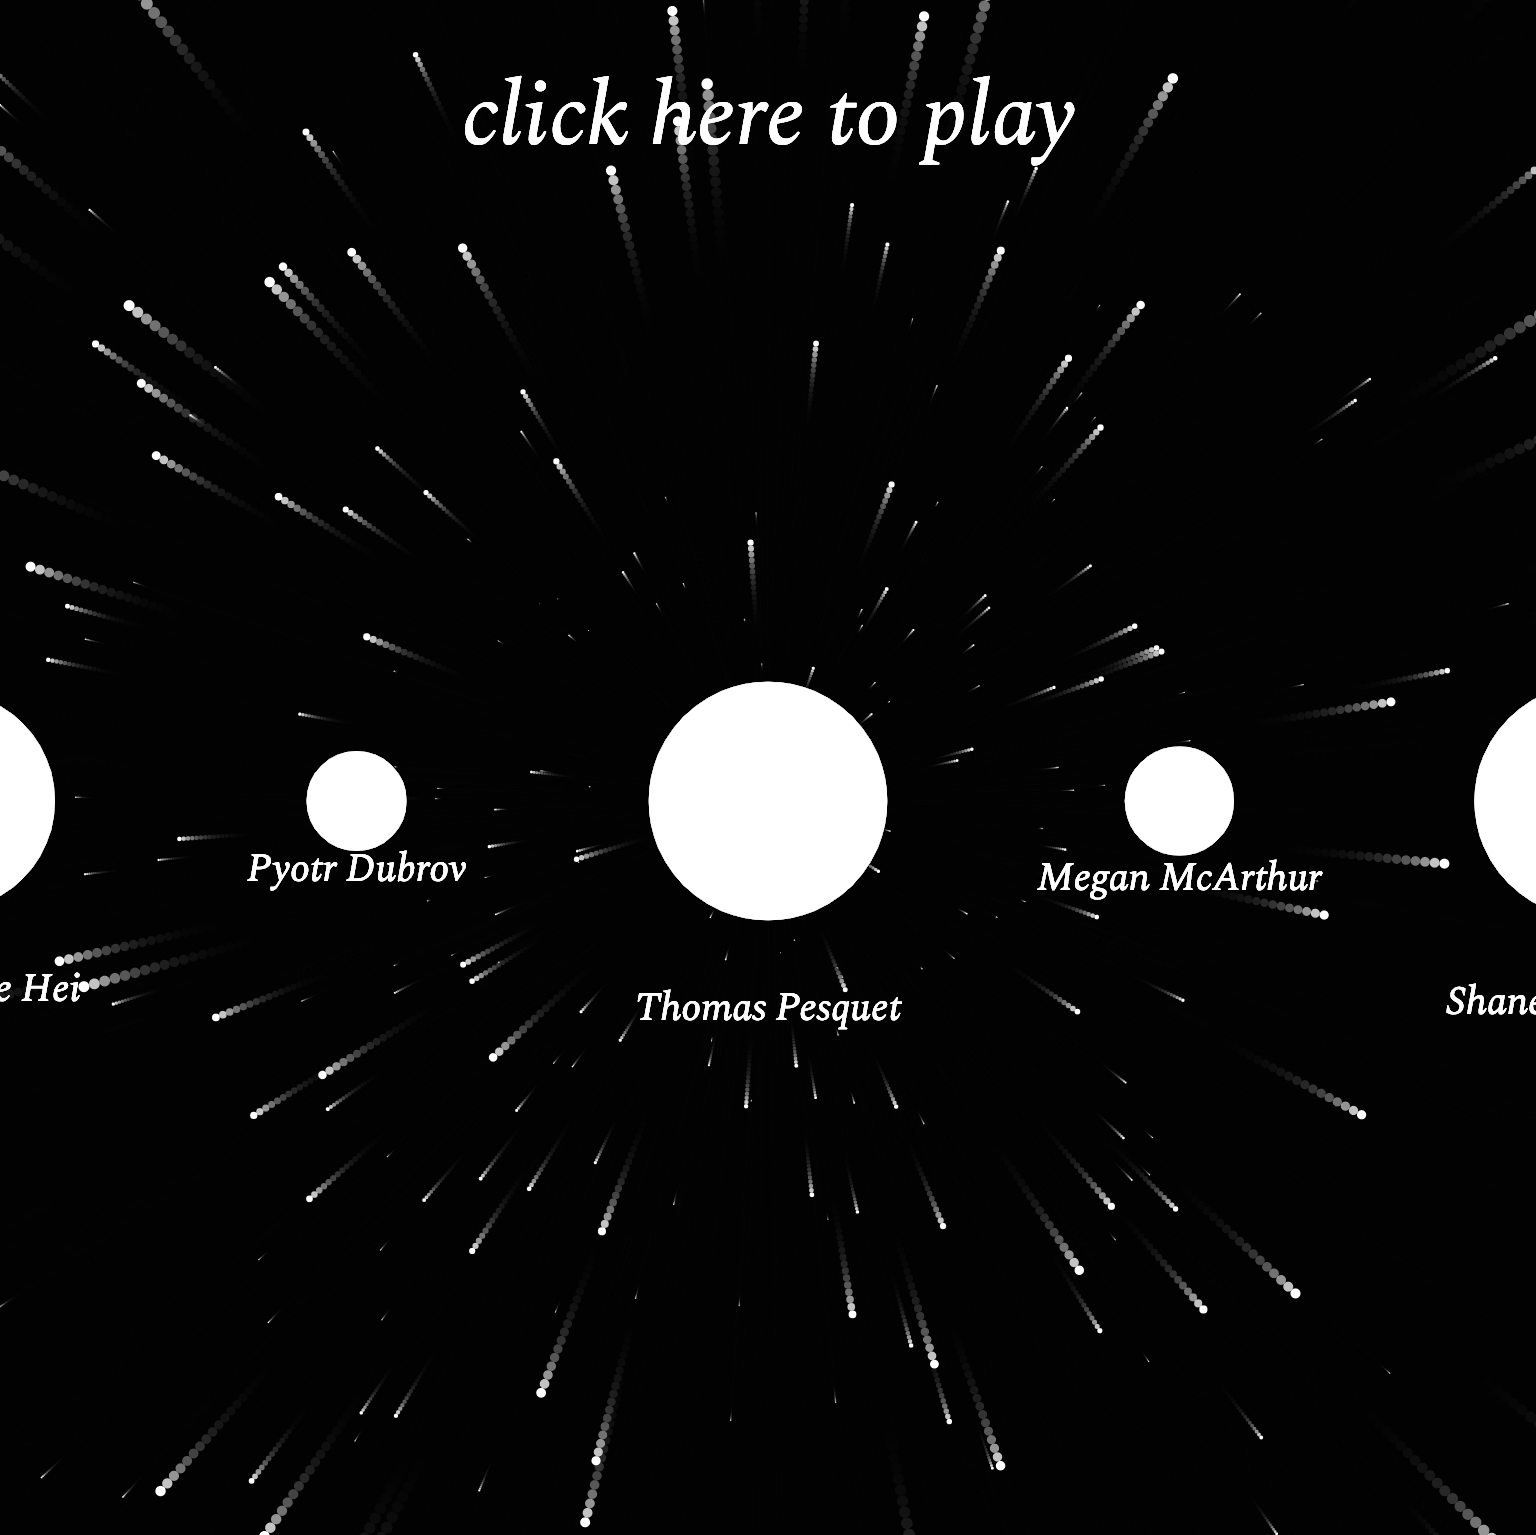
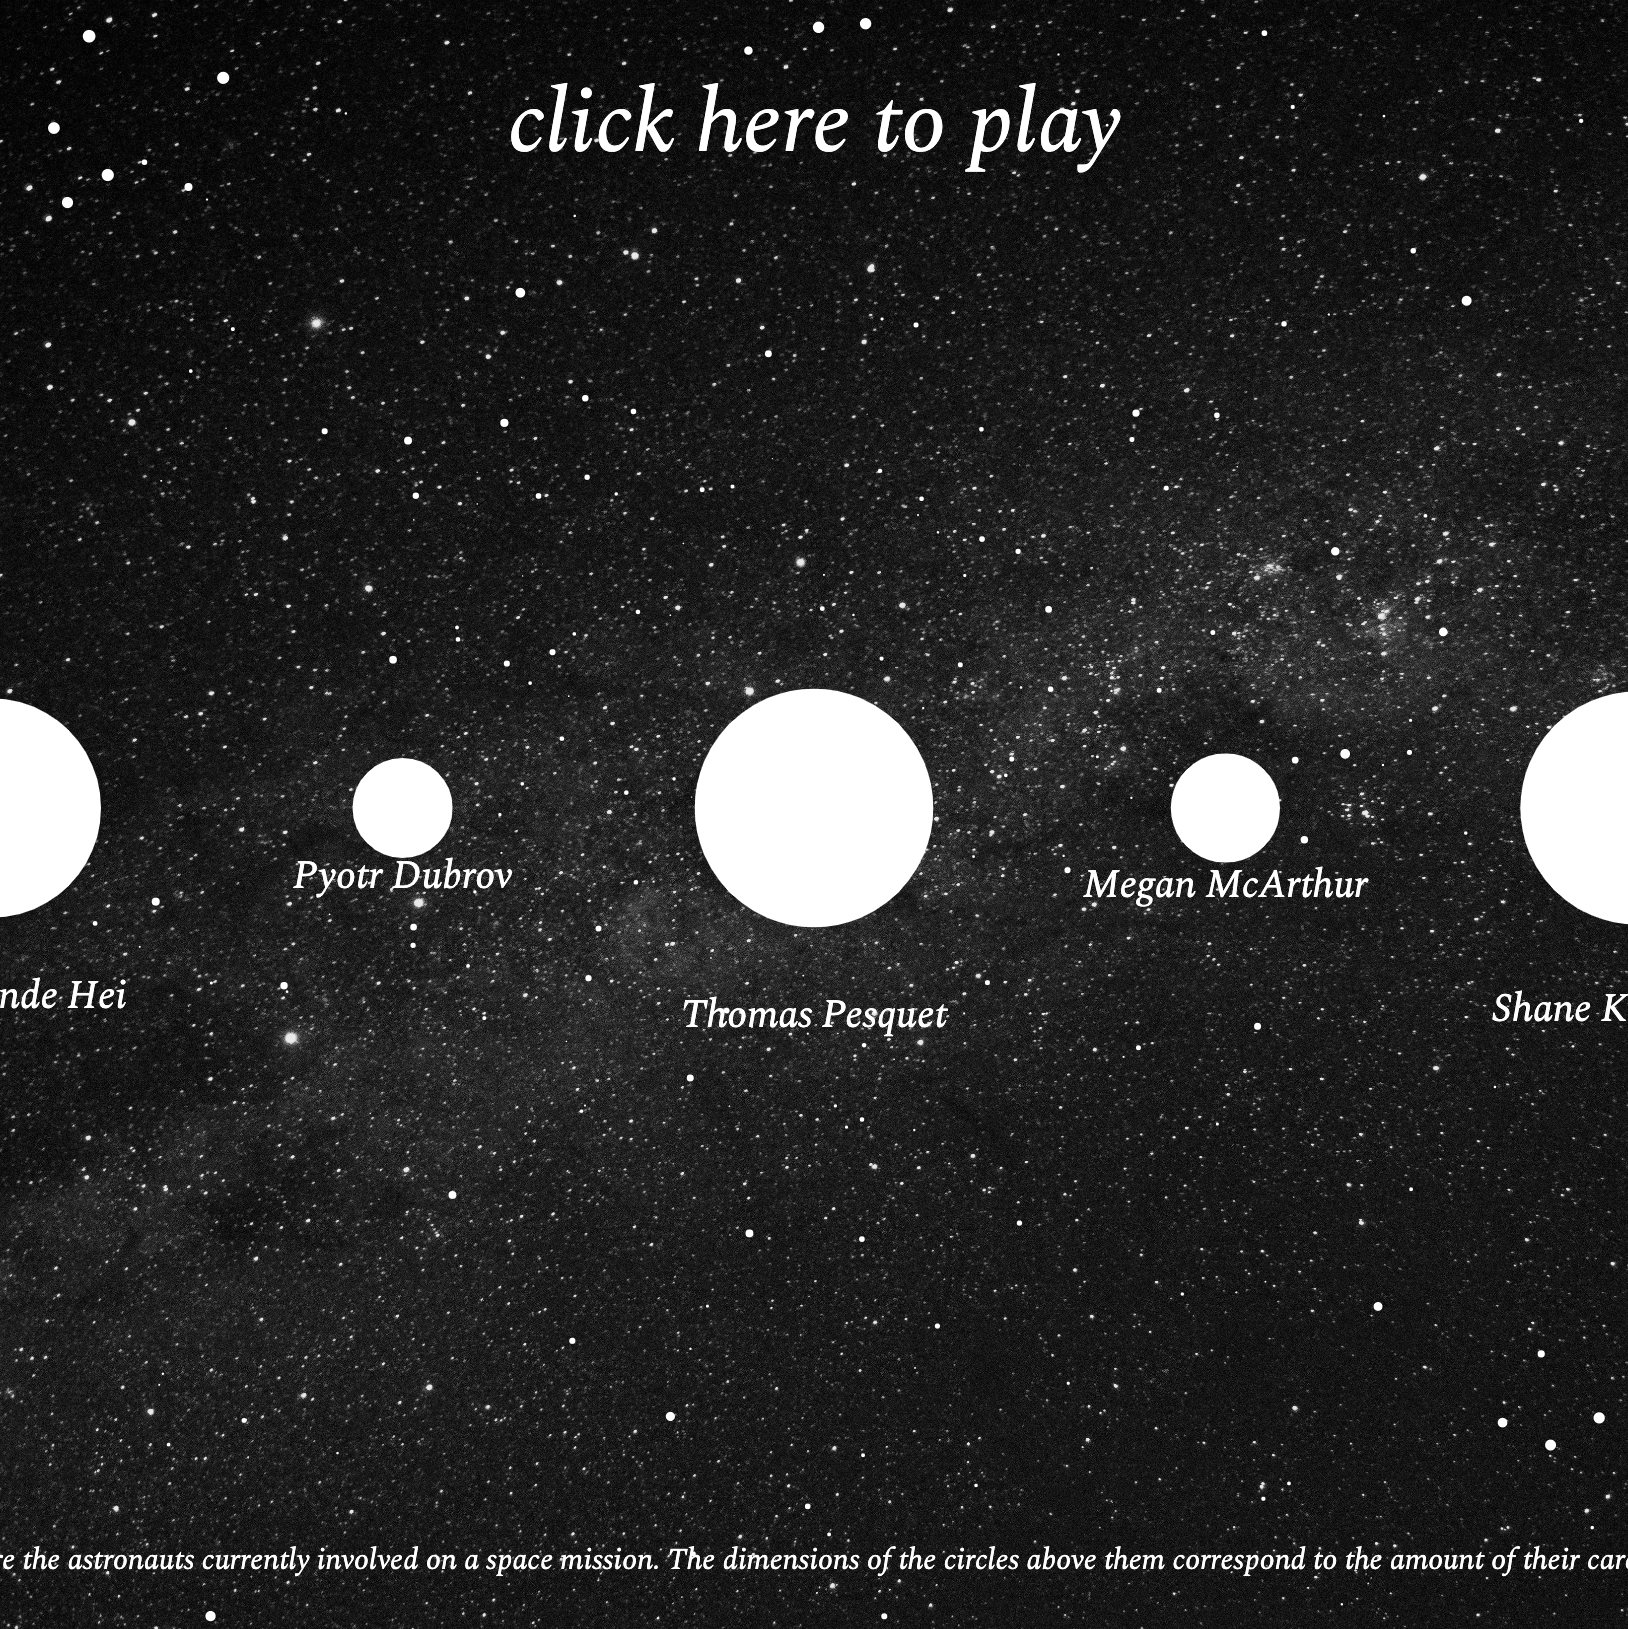
Background image added.

diff --git a/sketch.js b/sketch.js
@@ -5,6 +5,7 @@ let stars = [];
 let people = [];
 let mySong;
 let myData;
+let myImage;
 
 let personMinSize = 40;
 let personMaxSize = 160;
@@ -14,6 +15,7 @@ let longestCareer = 0;
 function preload() {
   mySong = loadSound("./assets/hanszimmer.mp3");
   myData = loadJSON("./assets/peopleinspace.json");
+  myImage = loadImage("./assets/galaxy.jpg");
 }
 
 function setup() {
@@ -44,7 +46,8 @@ function windowResized() {
 }
 
 function draw() {
-  background(0, 60);
+  backgroundImage(myImage);
+  background(0, 20);
   if (mySong.isPlaying() === false) {
     textAlign(CENTER);
     textSize(45);
@@ -79,6 +82,15 @@ function draw() {
     windowWidth / 2,
     windowHeight - 30
   );
+  pop();
+}
+
+function backgroundImage(img) {
+  push();
+  translate(width / 2, height / 2);
+  imageMode(CENTER);
+  let scale = Math.max(width / img.width, height / img.height);
+  image(img, 0, 0, img.width * scale, img.height * scale);
   pop();
 }
 
